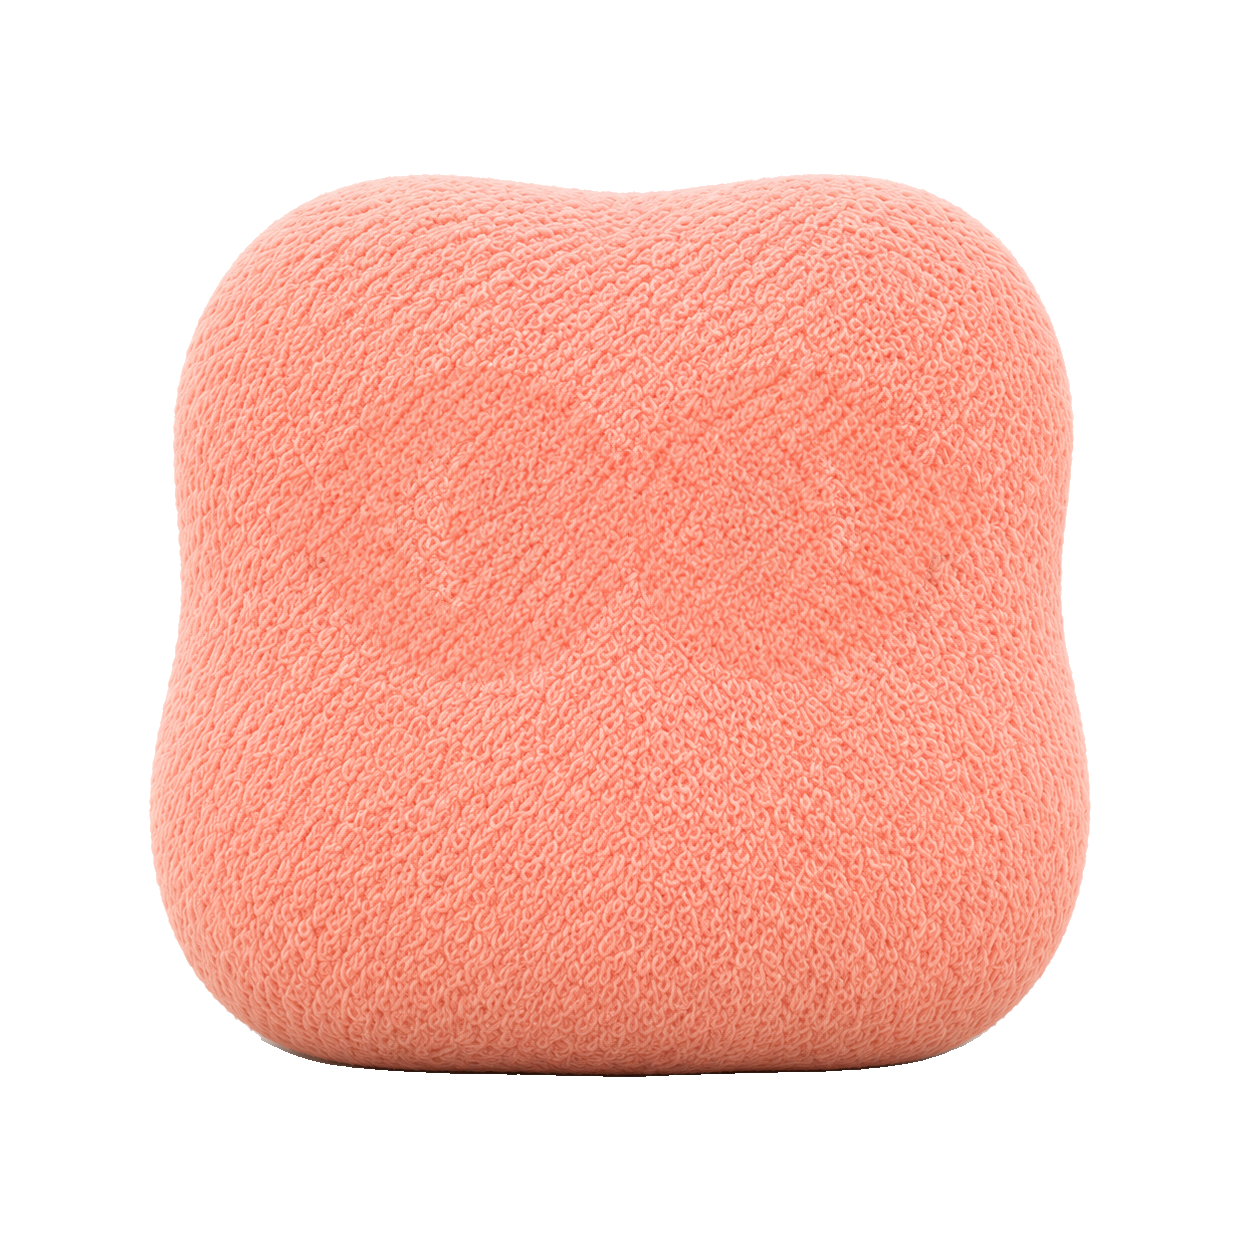
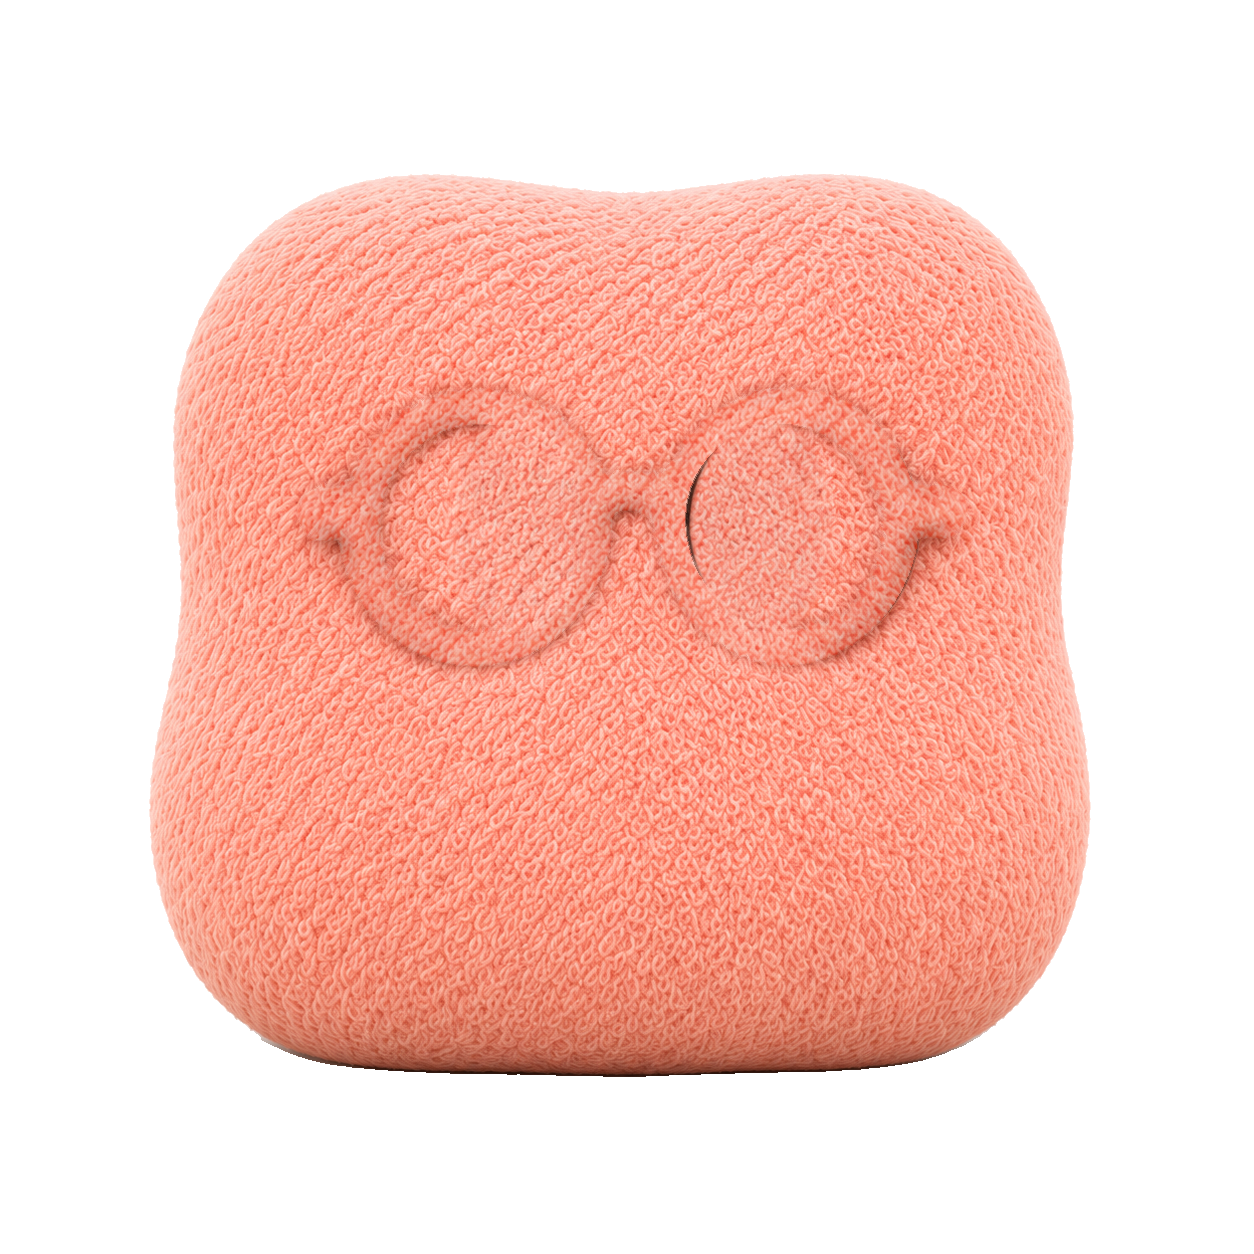
docs(design): popo body fix
Preserve the still cast shadow outside the frame while refilling only the frame and eye windows with locally matched plush. All 657108 tested opaque pixels match the still exactly outside the exclusions. The approved unshadowed eye rings contain 2663/2082 pixels: mean differences 0.3042%/0.4138%, texture ratios 0.852–0.991. Retain the original cast-shadow-affected large-ring measurements separately. No new image generation; alpha, headroom and WebGL pose checks pass.

diff --git a/.doan/assets/buddies/README.md b/.doan/assets/buddies/README.md
@@ -157,15 +157,16 @@ Final correction scripts, source-match, eye/alpha checks, CPU hull results and b
 
 ## Popo layers and rig
 
-`popo/still.png`, `body.png`, `accessory.png` and `shadow.png` are 1254² RGBA. Built-in image_gen made three
-edits (still, body, accessory); `popo/prompts.json` preserves the prompts. The generated still guides the
-transparent silhouette while the supplied card's visible pixels preserve its colour and yarn. Small internal
-alpha holes are filled (including the plush behind Popo's lenses). The generated accessory guides a source-pixel
-extraction; the generated body restores the hidden plush and the eye windows. ImageMagick matches eye-window
-colour and yarn contrast to the surrounding ring, with a compact transition. Accessory contact imprints are
-removed from the body; exposed boundary pixels are retained. The supplied card and artist files are unchanged.
-The black-alpha shadow is extracted from white darkening on the exposed floor and completed smoothly beneath
-the body; shadow generation count is zero. Human visual approval is pending.
+`popo/still.png`, `body.png`, `accessory.png` and `shadow.png` are 1254² RGBA. Three initial image_gen edits
+(still, body, accessory) are recorded in `popo/prompts.json`. The body now keeps the still's exposed pixels and
+cast shading outside the accessory and eye edit windows. Existing reconstructed plush is used only beneath
+the accessory and in the eyes, with a one-pixel compact accessory feather and local colour matching; its yarn
+texture is not substituted across the exposed body. Source cast shadows are preserved rather than redrawn.
+The supplied still, accessory, shadow, card and artist files are unchanged by this body correction.
+This correction uses the existing reconstructed plush with no new generation. Eye fills use unshadowed plush
+for their comparison ring: exclude the glasses alpha and its surrounding 12 px (2663/2082 left/right samples).
+The frame's real soft shadow outside the rims remains exactly as in the still.
+The black-alpha ground shadow remains the extracted card shadow. Human visual approval is pending.
 
 | Rig value | Popo |
 |---|---|
@@ -181,7 +182,7 @@ the body; shadow generation count is zero. Human visual approval is pending.
 
 Measurements use the same opaque dark-eye component and 50 % alpha ground sampling as Puri. The shared eye
 radius and centres agree with the still within `.003` UV. Body + accessory matches the still's alpha boundary
-within 1 source px outside the eyes. Neither body eye contains a dark eye pixel. Eye checks: left 0.7692% mean luminance difference, texture ratios 0.971/1.024/1.044; right 0.8100% mean luminance difference, texture ratios 0.961/0.990/0.989.
+within 1 source px outside the eyes. Neither body eye contains a dark eye pixel. Eye checks: left 0.3042% mean luminance difference, texture ratios 0.896/0.956/0.991; right 0.4138% mean luminance difference, texture ratios 0.852/0.899/0.905.
 Texture ratios are high-pass RMS at Gaussian sigma 1/2/4 px; each eye's measuring ellipse adds 22/28 px to the
 eye's measured x/y radii, with the surrounding ring at 1.25–1.5 times that ellipse. Mean luminance uses linear-light
 Rec.709 weights, relative to the ring. The eyes are measured after the final composite.
@@ -189,6 +190,15 @@ CPU motion verification checks 735,160 poses against the actual alpha hulls, ret
 14.27 device px inside Home's 228 px buffer (17.90 in 286 px).
 This is an asset transform check, not app WebGL parity. Scripts, generation sources and measurements remain in
 `.scratch/buddy-assets/popo/` and the shared scripts in `.scratch/buddy-assets/`.
+
+Source-pixel check: exclude positive accessory alpha dilated by a Euclidean 2 px disk and the eye edit
+ellipses (1.2 times the measuring windows). Of 657,108 opaque still pixels (alpha ≥ 250),
+100% match exactly in RGB and alpha, with maximum channel difference 0; the gate is ≤ 8 for at least 99.5%.
+Final correction scripts, source-match, eye/alpha checks, CPU hull results and browser pose comparisons are in
+`.scratch/buddy-assets/body-fixes/popo/` and its parent directory.
+The original large-ring comparison is retained as frame-cast-shadow-affected, not the approved eye gate:
+left 12.9224% luminance difference and texture ratios 1.094/1.161/1.169; right 5.5179% luminance difference and texture ratios 1.041/1.073/1.061.
+
 
 ## Dori layers and rig
 
